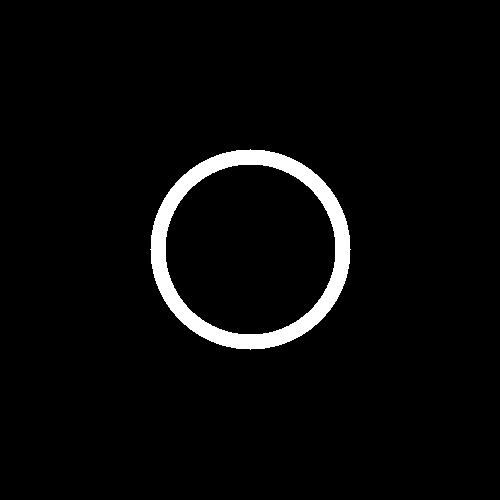
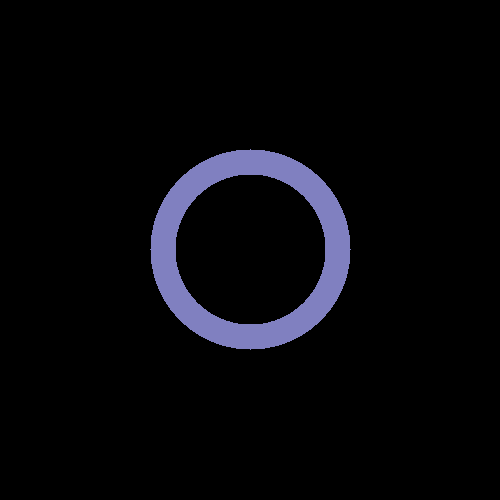
added rosace and background functions

Changed region(s): [[0.3, 0.3, 0.72, 0.72]]

diff --git a/src/main.cpp b/src/main.cpp
@@ -134,25 +134,6 @@ void colorsplit(sil::Image& image, int split_strength)
     image = output;
 }
 
-void circle(sil::Image& image)
-{
-    for (int x{0}; x<image.width(); x++)
-    {
-        for (int y{0}; y<image.height(); y++)
-        {
-            int radius {100};
-            int thickness {15};
-            int centerx {image.width()/2};
-            int centery {image.height()/2};
-            double disk_equation {(std::pow(x - centerx, 2) + std::pow(y - centery, 2))};
-
-            if (std::pow(radius - thickness, 2) <= disk_equation && disk_equation <= std::pow(radius, 2)) {
-                image.pixel(x, y) = glm::vec3{1, 1, 1};
-            }
-        }
-    }
-}
-
 void disc(sil::Image& image, int dist_from_center)
 {
     for (int x{0}; x<image.width(); x++)
@@ -168,6 +149,51 @@ void disc(sil::Image& image, int dist_from_center)
             } else {
                 image.pixel(x, y) = glm::vec3{1};
             }
+        }
+    }
+}
+
+// image, centres, radius et épaisseur
+void circle(sil::Image& image, int centerx, int centery, int radius, int thickness)
+{
+    for (int x{0}; x<image.width(); x++)
+    {
+        for (int y{0}; y<image.height(); y++)
+        {
+            double disk_equation {(std::pow(x - centerx, 2) + std::pow(y - centery, 2))};
+
+            if (std::pow(radius - thickness, 2) <= disk_equation && disk_equation <= std::pow(radius, 2)) {
+                image.pixel(x, y) = glm::vec3{0.6, 0.6, 0.6};
+            }
+            //     // tracer le fond
+            //     image.pixel(x, y) = glm::vec3{1, y/float(image.height()*5)+0.85, y/float(image.height()*5)+0.95};
+            // }
+        }
+    }
+}
+
+void rosace(sil::Image& image, int roscenterx, int roscentery, int rosradius, int thickness)
+{
+    circle(image, roscenterx, roscentery, rosradius, thickness);
+
+    for(float angle{0}; angle <= (5*M_PI/3); angle += M_PI/3){
+        double centerx {(roscenterx + (cos(angle)*rosradius))};
+        double centery {(roscentery + (sin(angle)*rosradius))};  
+        
+        circle(image, centerx, centery, rosradius, thickness);
+    }
+}
+
+void background(sil::Image& image)
+{
+    for (int x{0}; x < image.width(); x++)
+    {
+        for (int y{0}; y < image.height(); y++)
+        {
+           if(image.pixel(x, y) == glm::vec3{0}){
+               image.pixel(x, y) = glm::vec3{1, y/float(image.height()*5)+0.85, y/float(image.height()*5)+0.95};
+           } 
+
         }
     }
 }
@@ -222,7 +248,7 @@ int main()
     // }
     // {   
     //     sil::Image image{500, 500}; 
-    //     circle(image); 
+    //     circle(image, image.width()/2, image.height()/2, 100, 25); 
     //     image.save("output/circle.png");
     // }
     // {   
@@ -230,14 +256,20 @@ int main()
     //     disc(image, 100); 
     //     image.save("output/disc.png");
     // }
+    // {   
+    //     for (int x{0}; x < 450; x++){
+    //         sil::Image image{500, 500};
+    //         disc(image, x); 
+    //         colorsplit(image, x/4);
+    //         std::stringstream stream;
+    //         stream << "output/disk_anim/disk_anim_" << x << ".png";
+    //         image.save(stream.str());
+    //     }
+    // }
     {   
-        for (int x{0}; x < 450; x++){
-            sil::Image image{500, 500};
-            disc(image, x); 
-            colorsplit(image, x/4);
-            std::stringstream stream;
-            stream << "output/disk_anim/disk_anim_" << x << ".png";
-            image.save(stream.str());
-        }
+        sil::Image image{500, 500}; 
+        rosace(image, image.width()/2, image.height()/2, 100, 25); 
+        background(image);
+        image.save("output/rosace.png");
     }
 }
